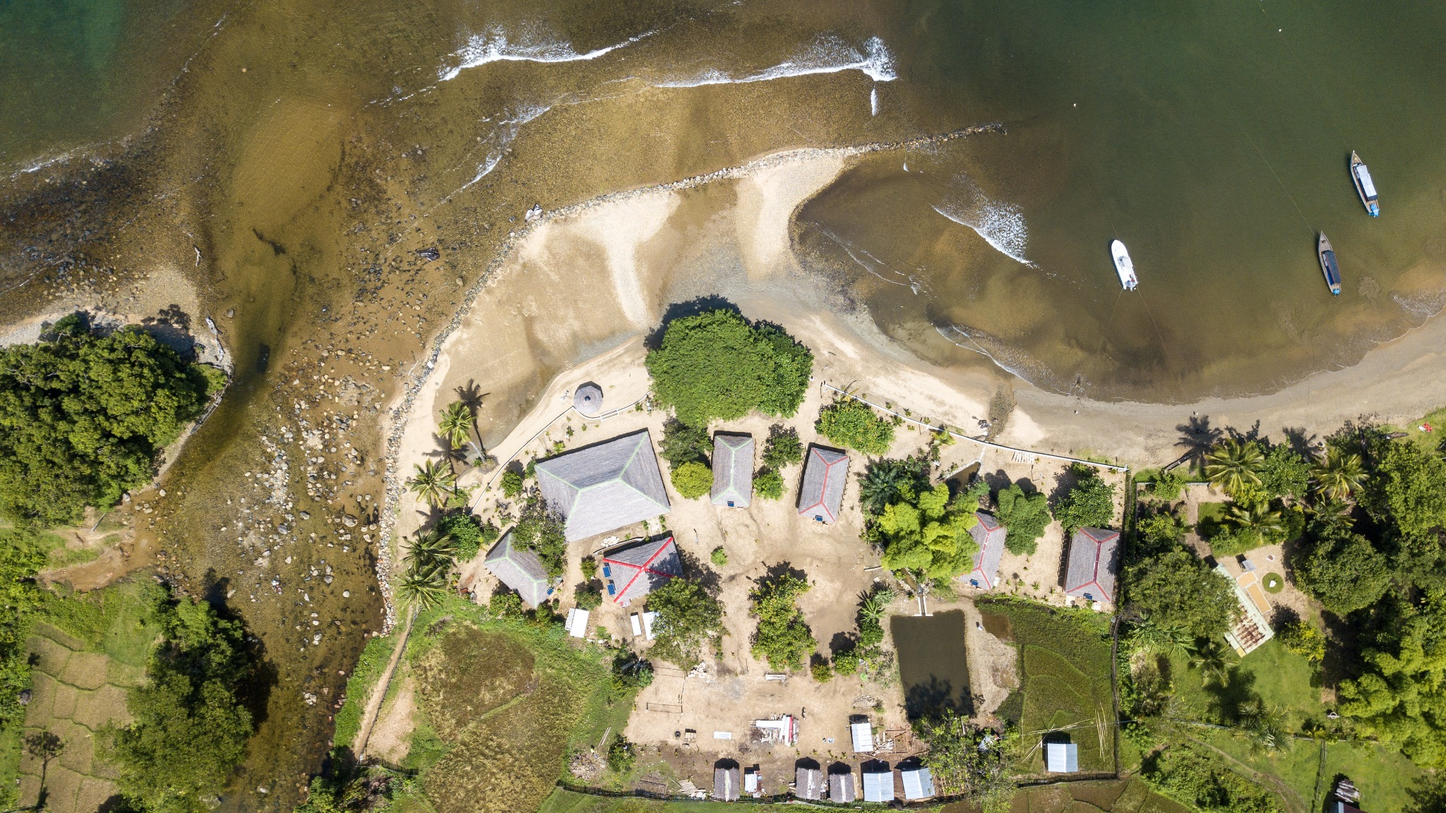
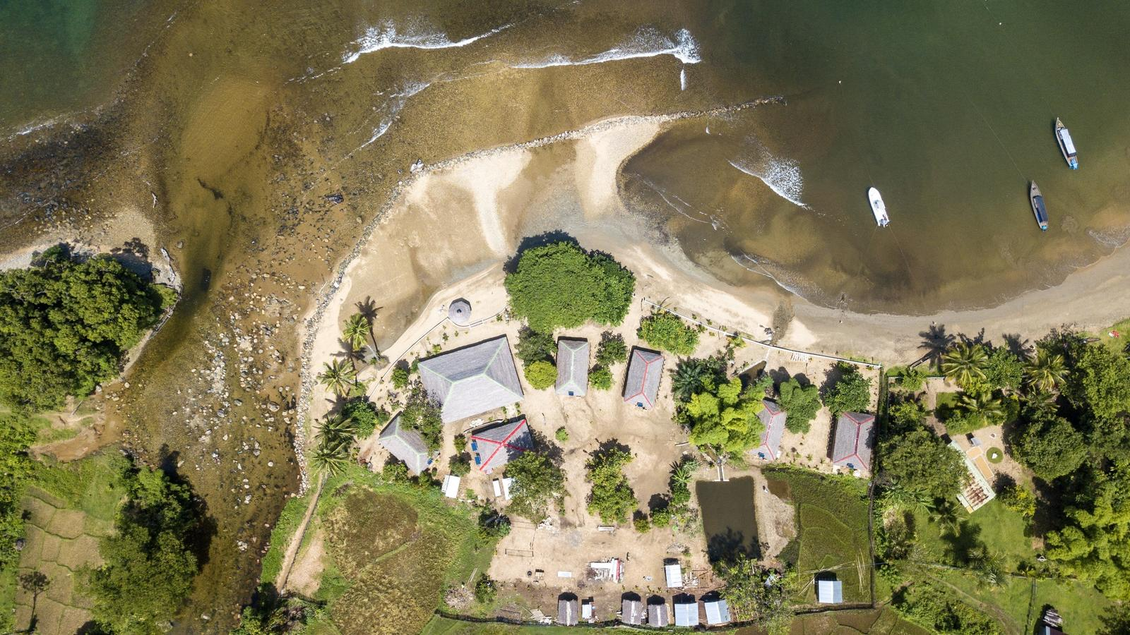
Add files via upload

Changed region(s): [[0.6562, 0.9022, 0.6875, 0.9644], [0.5625, 0.4978, 0.5938, 0.5289], [0.5312, 0.7156, 0.5625, 0.7467]]

diff --git a/assets/welcome.css b/assets/welcome.css
@@ -1,0 +1,64 @@
+/* Welcome splash + promo card — Masoala Experiences */
+:root{--wz-navy:#052e39;--wz-navy2:#0e6c78;--wz-gold:#e6bd73;--wz-gold-l:#f4d99c;--wz-cream:#fbf3e5}
+
+/* ---------- Écran de bienvenue ---------- */
+.wz-splash{position:fixed;inset:0;z-index:100000;display:flex;align-items:center;justify-content:center;flex-direction:column;
+  text-align:center;color:var(--wz-cream);overflow:hidden;
+  background:radial-gradient(ellipse at 50% 40%,var(--wz-navy2) 0%,var(--wz-navy) 70%);
+  animation:wzOut .7s ease 2.7s forwards}
+html.wz-skip .wz-splash{display:none}
+@keyframes wzOut{to{opacity:0;visibility:hidden;pointer-events:none}}
+.wz-splash.is-closing{animation:wzOut .5s ease forwards}
+.wz-inner{position:relative;z-index:2;padding:0 24px}
+.wz-logo{width:clamp(96px,22vw,150px);height:auto;margin:0 auto 18px;display:block;opacity:0;transform:scale(.85);
+  animation:wzIn .9s cubic-bezier(.2,.7,.2,1) .15s forwards}
+.wz-hello{font:500 12px/1 'Nunito',sans-serif;letter-spacing:.35em;text-transform:uppercase;color:var(--wz-gold);
+  opacity:0;animation:wzUp .7s ease .7s forwards}
+.wz-name{font:300 clamp(34px,8vw,64px)/1.05 'Playfair Display',serif;margin:12px 0 6px;opacity:0;animation:wzUp .8s ease .95s forwards}
+.wz-name em{font-style:italic;color:var(--wz-gold-l)}
+.wz-line{width:0;height:1px;background:var(--wz-gold);margin:14px auto;animation:wzLine .9s ease 1.2s forwards}
+.wz-tag{font:400 13px/1.5 'Nunito',sans-serif;letter-spacing:.18em;text-transform:uppercase;color:rgba(251,243,229,.75);
+  opacity:0;animation:wzUp .7s ease 1.45s forwards}
+.wz-skip-btn{position:absolute;top:18px;right:18px;z-index:3;background:none;border:1px solid rgba(230,189,115,.45);color:var(--wz-gold-l);
+  font:500 11px 'Nunito',sans-serif;letter-spacing:.2em;text-transform:uppercase;padding:8px 14px;border-radius:2px;cursor:pointer}
+.wz-skip-btn:hover{background:rgba(230,189,115,.15)}
+.wz-waves{position:absolute;left:0;right:0;bottom:0;height:90px;z-index:1;opacity:.55}
+.wz-waves svg{position:absolute;bottom:0;left:0;width:200%;height:100%;animation:wzWave 7s linear infinite}
+.wz-waves svg:nth-child(2){animation-duration:11s;animation-direction:reverse;opacity:.6}
+@keyframes wzIn{to{opacity:1;transform:none}}
+@keyframes wzUp{from{opacity:0;transform:translateY(14px)}to{opacity:1;transform:none}}
+@keyframes wzLine{to{width:88px}}
+@keyframes wzWave{to{transform:translateX(-50%)}}
+
+/* ---------- Carte promo ---------- */
+.wz-promo{position:fixed;left:16px;bottom:16px;z-index:900;width:min(340px,calc(100vw - 32px));
+  background:var(--wz-navy);color:var(--wz-cream);border:1px solid rgba(230,189,115,.4);border-radius:4px;
+  box-shadow:0 14px 40px rgba(5,46,57,.35);font-family:'Nunito',sans-serif;
+  transform:translateY(24px);opacity:0;visibility:hidden;transition:opacity .5s ease,transform .5s ease,visibility .5s}
+.wz-promo.is-open{transform:none;opacity:1;visibility:visible}
+.wz-promo-close{position:absolute;top:6px;right:8px;background:none;border:0;color:var(--wz-gold-l);font-size:22px;line-height:1;cursor:pointer;padding:4px 8px}
+.wz-slides{position:relative;min-height:128px}
+.wz-slide{position:absolute;inset:0;padding:18px 20px 12px;opacity:0;visibility:hidden;transition:opacity .45s}
+.wz-slide.is-on{opacity:1;visibility:visible;position:relative}
+.wz-kicker{font-size:10px;letter-spacing:.28em;text-transform:uppercase;color:var(--wz-gold)}
+.wz-title{font:400 22px/1.15 'Playfair Display',serif;margin:6px 24px 6px 0}
+.wz-text{font-size:13px;line-height:1.5;color:rgba(251,243,229,.8);margin-bottom:12px}
+.wz-cta{display:inline-block;background:var(--wz-gold);color:var(--wz-navy);font-weight:600;font-size:12px;letter-spacing:.12em;
+  text-transform:uppercase;text-decoration:none;padding:9px 16px;border-radius:2px}
+.wz-cta:hover{background:var(--wz-gold-l)}
+.wz-dots{display:flex;gap:6px;padding:0 20px 14px}
+.wz-dot{width:7px;height:7px;border-radius:50%;border:0;padding:0;background:rgba(251,243,229,.3);cursor:pointer}
+.wz-dot.is-on{background:var(--wz-gold)}
+
+@media (prefers-reduced-motion:reduce){
+  .wz-splash{display:none}
+  .wz-promo{transition:none}
+  .wz-waves svg{animation:none}
+}
+
+.wz-name{font-weight:600}.wz-hello,.wz-tag,.wz-skip-btn{font-family:'Nunito',sans-serif}
+
+/* robustesse face aux styles globaux du site */
+.wz-promo .wz-dot{width:7px;height:7px;min-width:0;min-height:0;padding:0;margin:0;border-radius:50%;flex:none;display:block}
+.wz-promo .wz-promo-close{width:auto;height:auto;min-width:0;background:none}
+.wz-splash .wz-skip-btn{width:auto;height:auto}

diff --git a/assets/welcome.js b/assets/welcome.js
@@ -1,0 +1,48 @@
+/* Welcome splash + promo card — Masoala Experiences
+   Pour un autre site : modifier uniquement la section CONFIG ci-dessous. */
+(function(){
+  /* ===== CONFIG ===== */
+  var PROMOS=[];
+  var SHOW_AFTER=6000, ROTATE=6500, HIDE_ON=[];
+  /* ================== */
+  var doc=document, ss=null;
+  try{ss=window.sessionStorage}catch(e){}
+  function get(k){try{return ss&&ss.getItem(k)}catch(e){return null}}
+  function set(k){try{ss&&ss.setItem(k,'1')}catch(e){}}
+
+  /* Splash */
+  var sp=doc.querySelector('.wz-splash');
+  if(sp){
+    set('wz_splash');
+    var close=function(){sp.classList.add('is-closing')};
+    var b=sp.querySelector('.wz-skip-btn'); if(b) b.addEventListener('click',close);
+    doc.addEventListener('keydown',function(e){if(e.key==='Escape')close()});
+  }
+
+  /* Promo card */
+  var page=(location.pathname.split('/').pop()||'index.html');
+  if(HIDE_ON.indexOf(page)>-1||get('wz_promo_closed')) return;
+  if(!PROMOS.length) return;
+  if(window.matchMedia&&matchMedia('(prefers-reduced-motion: reduce)').matches) return;
+
+  var card=doc.createElement('aside');
+  card.className='wz-promo'; card.setAttribute('role','complementary'); card.setAttribute('aria-label','Offres');
+  var html='<button class="wz-promo-close" type="button" aria-label="Fermer">&times;</button><div class="wz-slides">';
+  PROMOS.forEach(function(p,i){
+    html+='<div class="wz-slide'+(i?'':' is-on')+'"><div class="wz-kicker">'+p.k+'</div><div class="wz-title">'+p.t+'</div><p class="wz-text">'+p.x+'</p><a class="wz-cta" href="'+p.h+'">'+p.b+'</a></div>';
+  });
+  html+='</div><div class="wz-dots">';
+  PROMOS.forEach(function(p,i){html+='<button class="wz-dot'+(i?'':' is-on')+'" type="button" aria-label="Offre '+(i+1)+'"></button>'});
+  html+='</div>';
+  card.innerHTML=html; doc.body.appendChild(card);
+  if(getComputedStyle(card).position!=='fixed'){card.remove();return}  /* CSS absent : ne rien afficher */
+
+  var slides=card.querySelectorAll('.wz-slide'), dots=card.querySelectorAll('.wz-dot'), cur=0, timer=null;
+  function go(n){slides[cur].classList.remove('is-on');dots[cur].classList.remove('is-on');cur=(n+slides.length)%slides.length;slides[cur].classList.add('is-on');dots[cur].classList.add('is-on')}
+  function start(){stop();timer=setInterval(function(){go(cur+1)},ROTATE)}
+  function stop(){if(timer){clearInterval(timer);timer=null}}
+  Array.prototype.forEach.call(dots,function(d,i){d.addEventListener('click',function(){go(i);start()})});
+  card.addEventListener('mouseenter',stop); card.addEventListener('mouseleave',start);
+  card.querySelector('.wz-promo-close').addEventListener('click',function(){card.classList.remove('is-open');stop();set('wz_promo_closed')});
+  setTimeout(function(){card.classList.add('is-open');start()},SHOW_AFTER);
+})();
